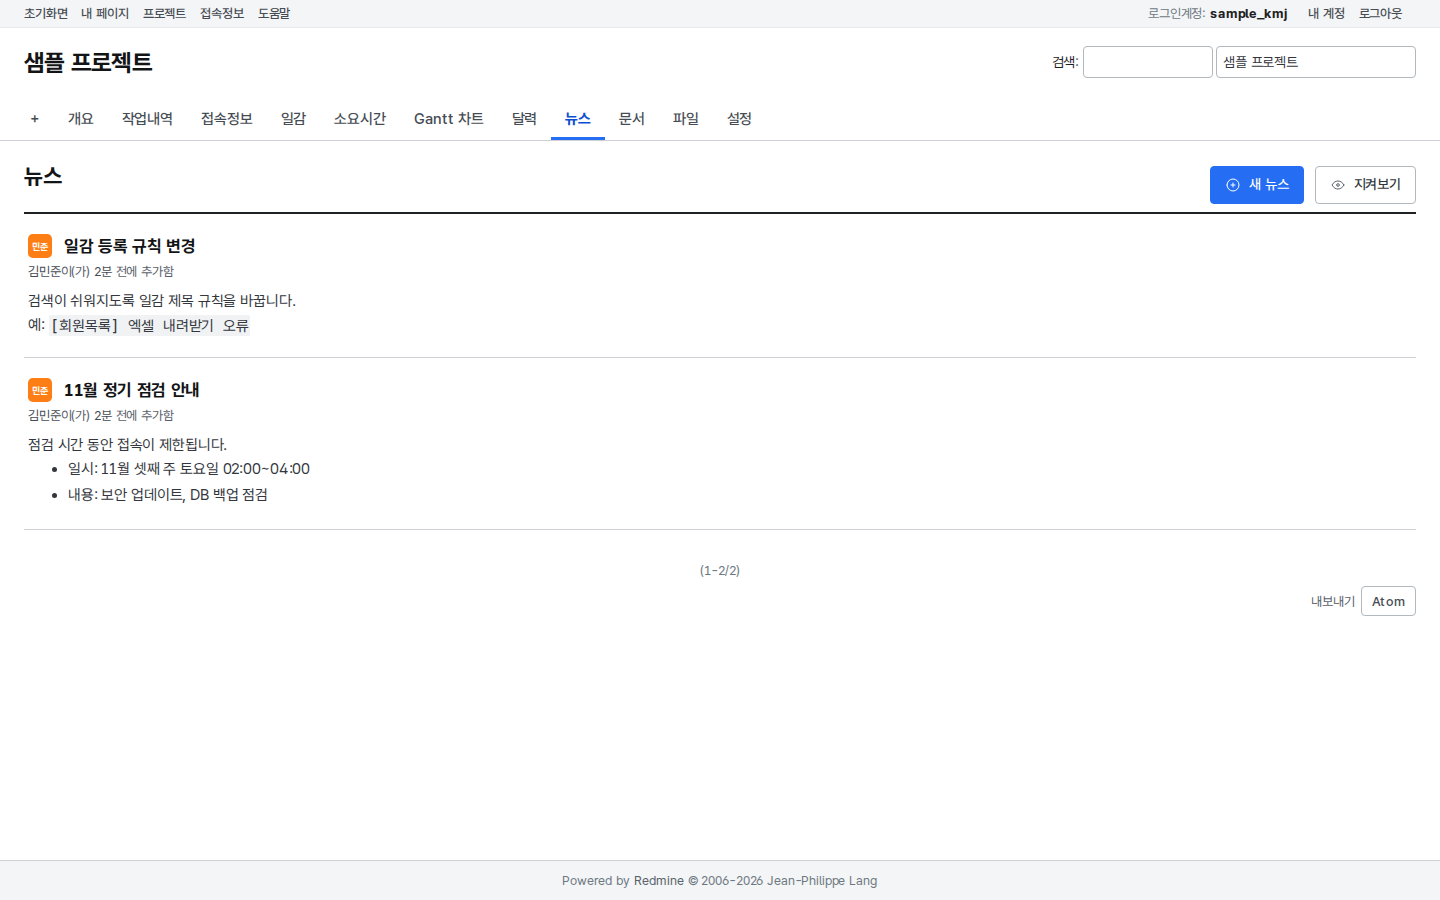
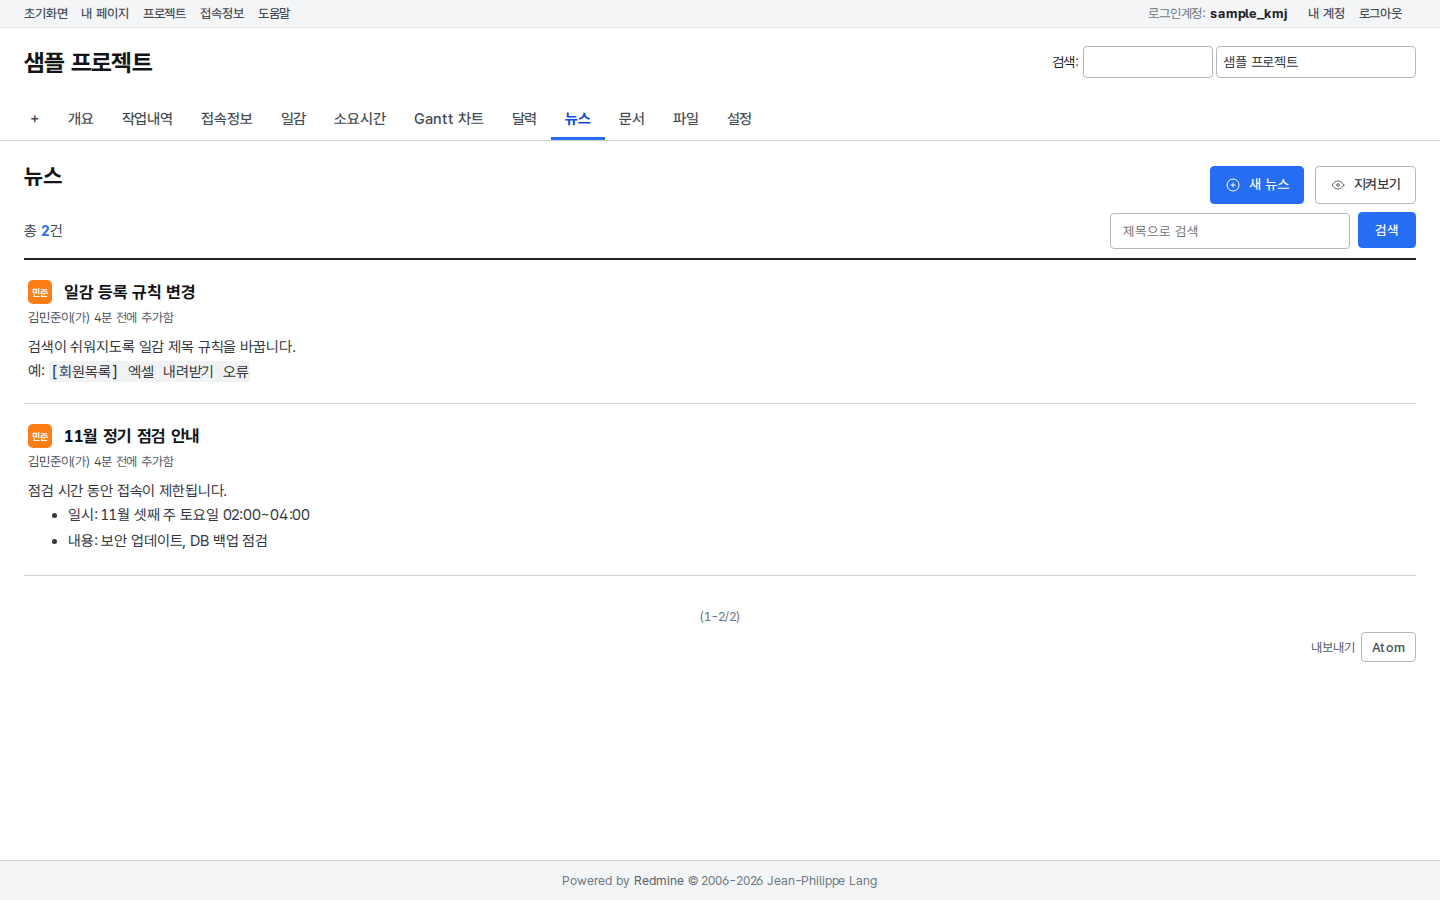
문서·뉴스·파일 목록에 제목 검색 추가

diff --git a/themes/krds/stylesheets/application.css b/themes/krds/stylesheets/application.css
@@ -230,14 +230,16 @@ div.fileover span.add_attachment,p.custom-field-filedroplistner.fileover span.ad
 .doc_file div.attachments>.contextual{position:absolute;top:-30px;right:0;margin:0;}
 
 /* ===== 문서 목록 (KRDS 게시판 목록, 마크업: plugins/krds_ui) ===== */
-.doc_bar{display:flex;clear:both;flex-wrap:wrap;align-items:center;justify-content:space-between;gap:8px;margin:0 0 8px;}
-.doc_total{margin:0;font-size:0.9375rem;color:var(--gray_70);}
-.doc_total strong{color:var(--pri_50);}
-.doc_filter{display:flex;flex-wrap:wrap;align-items:center;gap:8px;margin:0;}
-.doc_filter label{font-size:0.875rem;font-weight:500;color:var(--gray_80);}
-.doc_filter select{height:36px;}
-.doc_filter input[type=submit]{height:36px;margin:0;}
-.doc_clear{font-size:0.875rem;color:var(--gray_60);}
+.list_bar{display:flex;clear:both;flex-wrap:wrap;align-items:center;justify-content:space-between;gap:8px;margin:0 0 8px;}
+.list_total{margin:0;font-size:0.9375rem;color:var(--gray_70);}
+.list_total strong{color:var(--pri_50);}
+.list_search{display:flex;flex:1 1 100%;flex-wrap:wrap;align-items:center;gap:8px;margin:0;}
+.list_search label{font-size:0.875rem;font-weight:500;color:var(--gray_80);}
+.list_search select{height:36px;}
+.list_field{display:flex;flex:1 1 220px;gap:8px;}
+#content .list_field input[type=search]{flex:1 1 0;width:0;height:36px;padding:0 12px;}
+.list_search input[type=submit]{height:36px;margin:0;}
+.list_clear{font-size:0.875rem;color:var(--gray_60);}
 .doc_badge{display:inline-flex;align-items:center;height:24px;padding:0 8px;margin:0 0 6px;border:1px solid var(--pri_20);border-radius:var(--radius_s);background:var(--pri_5);font-size:0.8125rem;font-weight:700;color:var(--pri_60);}
 .doc_list{padding:0;margin:0;border-top:2px solid var(--gray_90);list-style:none;}
 .doc_list>li.doc_item{padding:20px 16px;border-bottom:1px solid var(--gray_20);}
@@ -469,7 +471,7 @@ ul.cal div.issue.status-5,ul.cal div.issue.status-6{border-left-color:var(--gray
 ul.cal div.issue a.issue{font-weight:500;}
 
 /* ===== 뉴스 목록 (KRDS 게시판 목록) ===== */
-#content>h2+article.news-article{clear:both;border-top:2px solid var(--gray_90);}
+#content>h2+article.news-article,#content>.list_bar+article.news-article{clear:both;border-top:2px solid var(--gray_90);}
 article.news-article{padding:20px 4px;border-bottom:1px solid var(--gray_20);}
 article.news-article header h3{display:flex;align-items:center;gap:8px;padding:0;margin:0;font-size:1.0625rem;}
 article.news-article header h3 a{color:var(--gray_95);}
@@ -649,6 +651,9 @@ body.controller-keys table.list th:nth-child(n+4):nth-child(-n+6),body.controlle
 div#activity dt.grouped{padding-left:5em;}
 div#activity dd.grouped{margin-left:9em;}
 #query_form_with_buttons>p.contextual,#query_form_with_buttons>span.contextual{height:36px;margin:33px 0 0 16px;}
+.list_search{flex:0 1 auto;justify-content:flex-end;}
+.list_field{flex:none;}
+#content .list_field input[type=search]{flex:none;width:240px;}
 table.list.files{display:table;}
 table.list.files thead{display:table-header-group;}
 table.list.files tbody{display:table-row-group;}

diff --git a/plugins/krds_ui/init.rb b/plugins/krds_ui/init.rb
@@ -2,6 +2,8 @@
 # app/views/ 의 파일이 Redmine 기본 화면보다 우선 적용됨 (플러그인 view 경로가 앞에 붙음)
 # 덮어쓴 화면 (Redmine 업그레이드 시 원본 변경 여부를 비교할 것)
 # - documents/show.html.erb, index.html.erb, _document.html.erb : 문서 상세·목록 (Redmine 6.1.6 원본 기준, 목록 데이터: DocumentListPatch)
+# - news/index.html.erb, files/index.html.erb : 목록 위 제목(파일명) 검색줄 (뉴스 검색 처리: NewsSearchPatch)
+# - krds/_title_search.html.erb : 문서·뉴스·파일 공통 검색칸 (새 파일, 원본 없음)
 # - documents/_form.html.erb : 편집 화면에도 첨부 추가·삭제 표시 (저장 처리: DocumentAttachmentsPatch)
 # - activities/_activities.html.erb : 작업내역 시간을 오전/오후 12시간제로 표시
 # config/locales/ko.yml : core 한국어 번역 누락분 보충
@@ -23,7 +25,9 @@ module KrdsUi
       documents = @project.documents.includes(:attachments, :category).to_a
       @categories = (DocumentCategory.active.to_a | documents.map(&:category)).sort
       @category = @categories.detect {|c| c.id == params[:category_id].to_i}
+      @q = params[:q].to_s.strip.presence
       documents.select! {|d| d.category == @category} if @category
+      documents.select! {|d| d.title.downcase.include?(@q.downcase)} if @q
       @documents = sort_documents(documents)
       @document = @project.documents.build
       render :layout => false if request.xhr?
@@ -46,6 +50,24 @@ module KrdsUi
     end
   end
 
+  # 뉴스 목록 제목 검색 — 검색어가 없거나 API·Atom 요청이면 원본 그대로
+  module NewsSearchPatch
+    def index
+      @q = params[:q].to_s.strip.presence
+      return super if @q.nil? || params[:format].present?
+
+      scope = (@project ? @project.news.visible : News.visible).
+                where(Redmine::Database.like("#{News.table_name}.title", '?'), "%#{News.sanitize_sql_like(@q)}%")
+      @limit = 10
+      @news_count = scope.count
+      @news_pages = Redmine::Pagination::Paginator.new @news_count, @limit, params['page']
+      @offset = @news_pages.offset
+      @newss = scope.includes([:author, :project]).order("#{News.table_name}.created_on DESC").limit(@limit).offset(@offset).to_a
+      @news = News.new
+      render :layout => false if request.xhr?
+    end
+  end
+
   # 문서 편집 저장 때 첨부 추가·삭제 — 추가는 편집 권한(원본 add_attachment 와 동일), 삭제는 문서 삭제 권한(원본 첨부 삭제와 동일)
   module DocumentAttachmentsPatch
     def update
@@ -65,11 +87,12 @@ end
 User.prepend(KrdsUi::UserInitialsPatch) unless User.ancestors.include?(KrdsUi::UserInitialsPatch)
 DocumentsController.prepend(KrdsUi::DocumentAttachmentsPatch) unless DocumentsController.ancestors.include?(KrdsUi::DocumentAttachmentsPatch)
 DocumentsController.prepend(KrdsUi::DocumentListPatch) unless DocumentsController.ancestors.include?(KrdsUi::DocumentListPatch)
+NewsController.prepend(KrdsUi::NewsSearchPatch) unless NewsController.ancestors.include?(KrdsUi::NewsSearchPatch)
 
 Redmine::Plugin.register :krds_ui do
   name 'KRDS UI'
   author 'kephi-hub'
   url 'https://github.com/kephi-hub/Redmine-KRDS-style'
-  description 'KRDS 테마용 화면 마크업 (문서 상세·목록), 문서 범주 검색조건, 문서 편집 첨부 추가·삭제, 번역 보충, 한글 아바타 이니셜'
-  version '1.3.0'
+  description 'KRDS 테마용 화면 마크업 (문서 상세·목록), 문서 범주 검색조건, 문서·뉴스·파일 제목 검색, 문서 편집 첨부 추가·삭제, 번역 보충, 한글 아바타 이니셜'
+  version '1.4.0'
 end
